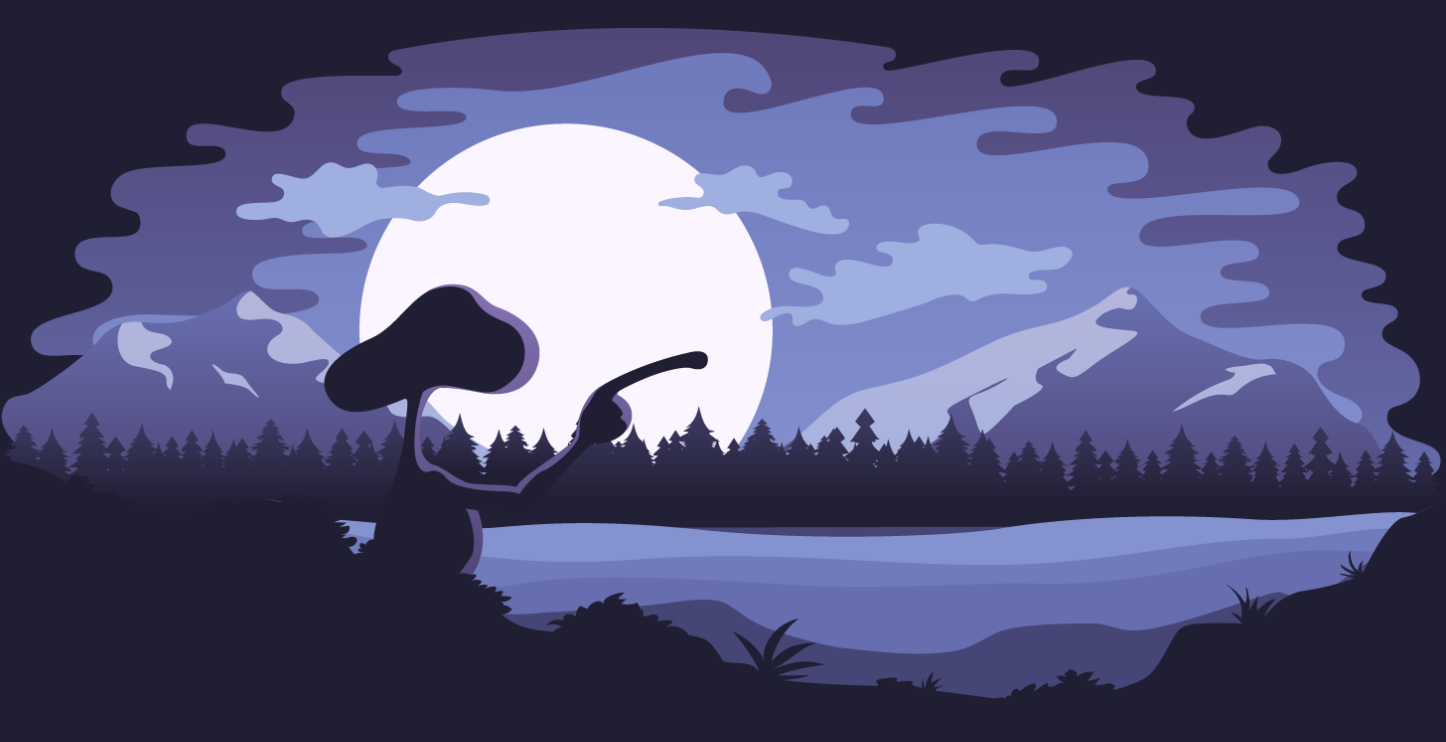
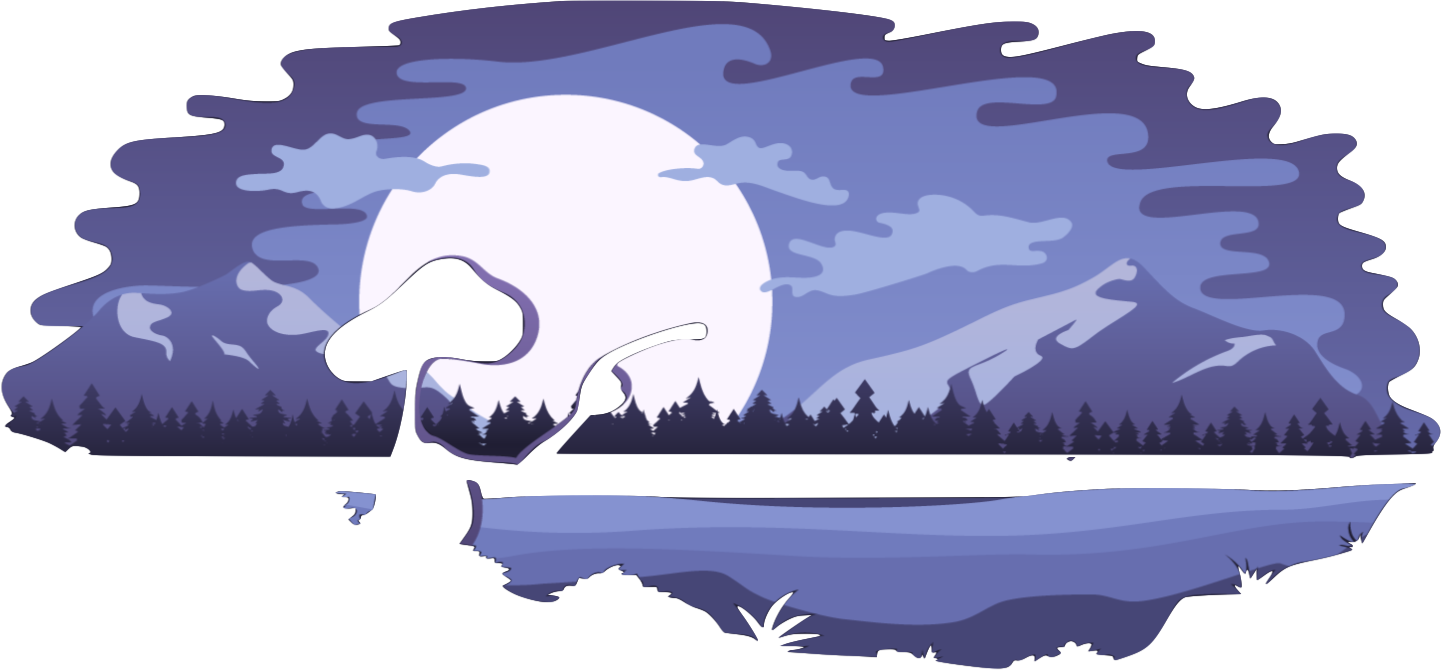
styles on notfound page

diff --git a/src/components/MoviesList/index.js b/src/components/MoviesList/index.js
@@ -1,15 +1,27 @@
-import React from 'react'
+import React, { useRef } from 'react'
 import './styles.css'
 
 export const MoviesList = ({ onclick, movies }) => {
 
+    // const moviesCarousel = useRef()
+
     return (
         <div className="category__movies">
-            {movies?.map(({movieId, image}) => {
-                return <div className="category__movies-item" onClick={()=> onclick(movieId)} key={movieId}>
-                    <img src={image} alt=""/>
-                </div>
-            })}
+            {/* <div className="category__movies-left">
+                <i className="fas fa-angle-left" style={{color: 'white'}} onClick={()=> 
+                    moviesCarousel.current.scrollLeft -= moviesCarousel.current.offsetWidth}>
+                </i>
+            </div> */}
+
+                {movies?.map(({movieId, image}) => {
+                    return <div className="category__movies-item" onClick={()=> onclick(movieId)} key={movieId}>
+                        <img src={image} alt=""/>
+                        </div>
+                })}
+            {/* <div className="category__movies-right" onClick={()=> 
+                moviesCarousel.current.scrollLeft += moviesCarousel.current.offsetWidth}>
+                <i className="fas fa-angle-right" style={{color: 'white'}}></i>
+            </div> */}
         </div>
     )
 }

diff --git a/src/pages/NotFound.js b/src/pages/NotFound.js
@@ -1,6 +1,8 @@
 import React, { useEffect } from 'react'
 import { useDispatch } from 'react-redux'
 import { removeError } from '../actions'
+import notFoundImage from '../assets/not-found.png'
+import './styles.css'
 
 export const NotFound = () => {
     const dispatch = useDispatch()
@@ -12,8 +14,17 @@ export const NotFound = () => {
     }, [dispatch])
     
     return (
-        <>
-            <h2 style={{color: "white", paddingTop: "5rem"}}>NOT FOUND</h2>   
-        </>
+        <div className='notfound'>
+            <img className='notfound__image' src={notFoundImage} alt='' />
+            <div className='notfound__message'>
+                <h4 className='notfound__message-title'>¿No lo encuentras?</h4>
+                <p className='notfound__message-text'>
+                    Lo sentimos, pero nuestros pequeños extraterrestres no han 
+                    podido encontrar lo que estás buscando. Puedes ir a la página principal 
+                    para ver nuestras estratosféricas películas o navegar por géneros como si de planetas se tratase.
+                </p>
+            
+            </div>   
+        </div>
     )
 }

diff --git a/src/pages/styles.css b/src/pages/styles.css
@@ -6,7 +6,6 @@
 
 .details__image{
     max-width: 100%;
-
 }
 
 .details__title{
@@ -20,3 +19,36 @@
     font-weight: bold;
     
 }
+
+.notfound {
+    position: absolute;
+    top: 20%;
+    display: flex;
+    flex-direction: column;
+    justify-content: center;
+    align-items: center;
+    width: 100%;
+    text-align: center;
+}
+
+.notfound__image {
+    width: 50%;
+    height: auto;
+}
+
+.notfound__message{
+    color: white;
+    width: 70%;
+}
+
+.notfound__message-title {
+    font-size: 1.6rem;
+    letter-spacing: 1px;
+    font-weight: bold;
+}
+
+.notfound__message-text {
+    font-size: 1.4rem;
+    letter-spacing: 1px
+}
+

diff --git a/public/index.html b/public/index.html
@@ -25,6 +25,7 @@
       Learn how to configure a non-root public URL by running `npm run build`.
     -->
     <title>Rakuten Test</title>
+    <link rel="stylesheet" href="https://cdnjs.cloudflare.com/ajax/libs/font-awesome/5.12.1/css/all.min.css">
   </head>
   <body>
     <noscript>You need to enable JavaScript to run this app.</noscript>

diff --git a/src/components/MoviesList/styles.css b/src/components/MoviesList/styles.css
@@ -1,6 +1,5 @@
 .category__movies{
     display: flex;
-    align-items: center;
     position: relative;
     overflow-x: scroll;
 }
